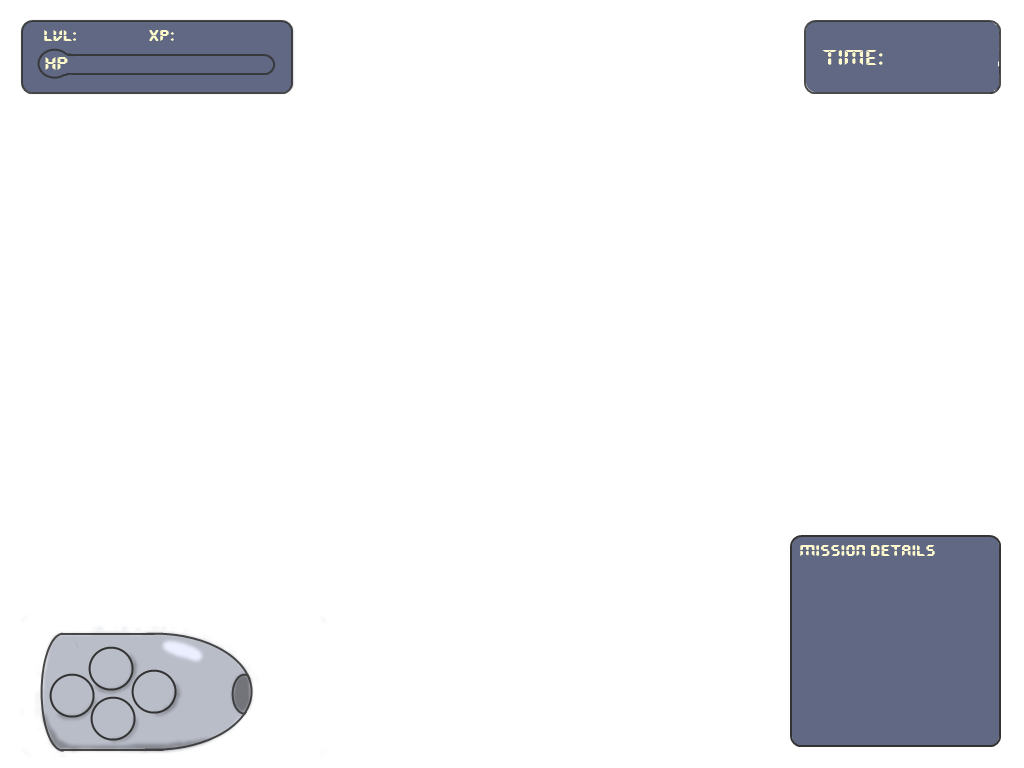
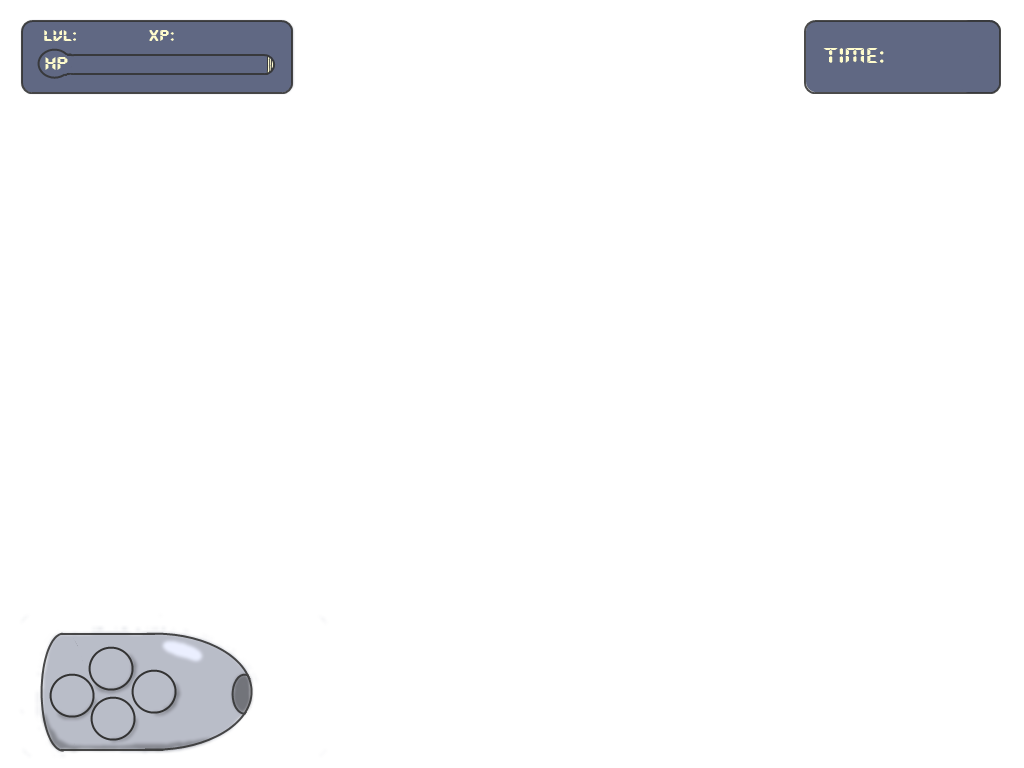
Verbesserte Mods zuweisung, pausenmenue, camerareset

Changed region(s): [[0.75, 0.6875, 1.0, 1.0], [0.8125, 0.0625, 0.875, 0.0938]]

diff --git a/Testsubjekt V1/Testsubjekt V1/Testsubjekt V1/GameScreens/PauseScreen.cs b/Testsubjekt V1/Testsubjekt V1/Testsubjekt V1/GameScreens/PauseScreen.cs
@@ -11,14 +11,23 @@ namespace TestsubjektV1
 {
     class PauseScreen : GameScreen
     {
-                int index;
+        int index;
         private SpriteFont menuFont1;
         private Rectangle resumeRectangle;
-        private Rectangle loadRectangle;
+        private Rectangle saveRectangle;
         private Rectangle exitRectangle;
+        private Rectangle modRectangle;
+        private Rectangle charRectangle;
+        private Rectangle missionRectangle;
         private Rectangle fadeRectangle;
+        private Rectangle baseRectangle;
+        private Rectangle interfaceRectangle;
+        private Rectangle frameRectangle;
+
 
         Texture2D cursor;
+        private Texture2D userInterface;
+        private Texture2D frame;
 
         private SpriteBatch spriteBatch;
         private ContentManager contentManager;
@@ -37,39 +46,100 @@ namespace TestsubjektV1
             world = w;
             camera = cam;
             menuFont1 = content.Load<SpriteFont>("Fonts/MenuFont1");
-            resumeRectangle = new Rectangle(358, 290, 286, 45);
-            loadRectangle = new Rectangle(402, 390, 214, 45);
-            exitRectangle = new Rectangle(409, 490, 187, 45);
+            resumeRectangle = new Rectangle(725, 76, 63, 58);
+            saveRectangle = new Rectangle(402, 225, 228, 43);
+            exitRectangle = new Rectangle(402, 505, 228, 43);
+            modRectangle = new Rectangle(402, 393, 228, 43);
+            charRectangle = new Rectangle(402, 281, 228, 43);
+            missionRectangle = new Rectangle(402, 337, 228, 43);
+            baseRectangle = new Rectangle(402, 449, 228, 43);
+            frameRectangle = saveRectangle;
+            
             graphicsDevice = gD;
             spriteBatch = new SpriteBatch(graphicsDevice);
             contentManager = content;
             cursor = content.Load<Texture2D>("cursor");
             fadeRectangle = new Rectangle(0, 0, 1024, 768);
+
+            userInterface = content.Load<Texture2D>("PauseMenu");
+            frame = content.Load<Texture2D>("briefing_frame");
+            interfaceRectangle = new Rectangle(0, 0, 1024, 768);
         }
 
         private void onNewGameClick()
         {
-            if (resumeRectangle.Contains(Mouse.GetState().X, Mouse.GetState().Y) && Mouse.GetState().LeftButton == ButtonState.Pressed)
-                screenReturnValue = Constants.CMD_NEW;
+            if (resumeRectangle.Contains(Mouse.GetState().X, Mouse.GetState().Y))
+            {
+                if (Mouse.GetState().LeftButton == ButtonState.Pressed)
+                    screenReturnValue = Constants.CMD_NEW;
+            }
         }
 
         private void onExitClick()
         {
-            if (exitRectangle.Contains(Mouse.GetState().X, Mouse.GetState().Y) && Mouse.GetState().LeftButton == ButtonState.Pressed)
-                screenReturnValue = Constants.CMD_EXIT;
+            if (exitRectangle.Contains(Mouse.GetState().X, Mouse.GetState().Y))
+            {
+                frameRectangle = exitRectangle;
+                if (Mouse.GetState().LeftButton == ButtonState.Pressed)
+                    screenReturnValue = Constants.CMD_EXIT;
+            }
         }
 
-        private void onLoadClick()
+        private void onSaveClick()
         { 
             //TODO
+        }
+
+        private void onBaseClick()
+        {
+            if (baseRectangle.Contains(Mouse.GetState().X, Mouse.GetState().Y))
+            {
+                frameRectangle = baseRectangle;
+                if (Mouse.GetState().LeftButton == ButtonState.Pressed)
+                {
+                    world.warp(0, 0);
+                    camera.reset();
+                    screenReturnValue = Constants.CMD_NEW;
+                }
+            }
+        }
+        private void onModClick()
+        {
+            if (modRectangle.Contains(Mouse.GetState().X, Mouse.GetState().Y))
+            {
+                frameRectangle = modRectangle;
+                if (Mouse.GetState().LeftButton == ButtonState.Pressed)
+                    screenReturnValue = Constants.CMD_MOD;
+            }
+        }
+        private void onCharClick()
+        {
+            if (charRectangle.Contains(Mouse.GetState().X, Mouse.GetState().Y))
+            {
+                frameRectangle = charRectangle;
+                if (Mouse.GetState().LeftButton == ButtonState.Pressed)
+                    screenReturnValue = Constants.CMD_NEW;
+            }
+        }
+        private void onMissionClick()
+        {
+            if (missionRectangle.Contains(Mouse.GetState().X, Mouse.GetState().Y))
+            {
+                frameRectangle = missionRectangle;
+                if (Mouse.GetState().LeftButton == ButtonState.Pressed)
+                    screenReturnValue = Constants.CMD_JOURNAL;
+            }
         }
        
         public override int update(GameTime gameTime)
         {
-            //TODO
+            onSaveClick();
             onExitClick();
-            onLoadClick();
             onNewGameClick();
+            onBaseClick();
+            onCharClick();
+            onMissionClick();
+            onModClick();
             return screenReturnValue;
         }
 
@@ -86,7 +156,8 @@ namespace TestsubjektV1
             //Draw Fade
             drawFade();
             //Draw Menu
-            drawMenu(); 
+            spriteBatch.Draw(userInterface, interfaceRectangle, Color.White);
+            spriteBatch.Draw(frame, frameRectangle, Color.White);
             
             //Draw Cursor
             spriteBatch.Draw(cursor, new Rectangle(Mouse.GetState().X, Mouse.GetState().Y, 38, 50), Color.White);
@@ -103,16 +174,5 @@ namespace TestsubjektV1
             
         }
 
-        private void drawMenu()
-        {
-
-            spriteBatch.DrawString(menuFont1, "Resume Game", new Vector2(401, 295),
-                                   (resumeRectangle.Contains(Mouse.GetState().X, Mouse.GetState().Y)) ? Color.Orange : Color.LemonChiffon);
-            spriteBatch.DrawString(menuFont1, "Load Game", new Vector2(415, 395),
-                                   (loadRectangle.Contains(Mouse.GetState().X, Mouse.GetState().Y)) ? Color.Orange : Color.LemonChiffon);
-            spriteBatch.DrawString(menuFont1, "Exit Game", new Vector2(424, 495),
-                                   (exitRectangle.Contains(Mouse.GetState().X, Mouse.GetState().Y)) ? Color.Orange : Color.LemonChiffon);
-
-        }
     }
 }

diff --git a/Testsubjekt V1/Testsubjekt V1/Testsubjekt V1/GameScreens/ModificationScreen.cs b/Testsubjekt V1/Testsubjekt V1/Testsubjekt V1/GameScreens/ModificationScreen.cs
@@ -136,14 +136,57 @@ namespace TestsubjektV1
                         default: inventoryItems[i][j].icon = i_mod_nil; break;
                     }
                 }
-            slot1Item=new ModItem(data.mods[19]);
-            slot1Item.icon = i_mod_nil;
-            slot2Item=new ModItem(data.mods[19]);
-            slot2Item.icon = i_mod_nil;
-            slot3Item=new ModItem(data.mods[19]);
-            slot3Item.icon = i_mod_nil;
-            slot4Item = new ModItem(data.mods[19]);
-            slot4Item.icon = i_mod_nil;
+            if (data.player.myWeapon.mods != null)
+            {
+                slot1Item = new ModItem(data.player.myWeapon.mods[0]);
+                switch (slot1Item.modification.type)
+                {
+                    case Constants.MOD_NIL: slot1Item.icon = i_mod_nil; break;
+                    case Constants.MOD_ELM: slot1Item.icon = i_mod_nil; break;
+                    case Constants.MOD_TYP: slot1Item.icon = i_mod_nil; break;
+                    case Constants.MOD_STR: slot1Item.icon = i_mod_str; break;
+                    case Constants.MOD_SPD: slot1Item.icon = i_mod_spd; break;
+                    case Constants.MOD_RCG: slot1Item.icon = i_mod_rcg; break;
+                    case Constants.MOD_ACP: slot1Item.icon = i_mod_acp; break;
+                    default: slot1Item.icon = i_mod_nil; break;
+                }
+                slot2Item = new ModItem(data.player.myWeapon.mods[1]);
+                switch (slot2Item.modification.type)
+                {
+                    case Constants.MOD_NIL: slot2Item.icon = i_mod_nil; break;
+                    case Constants.MOD_ELM: slot2Item.icon = i_mod_nil; break;
+                    case Constants.MOD_TYP: slot2Item.icon = i_mod_nil; break;
+                    case Constants.MOD_STR: slot2Item.icon = i_mod_str; break;
+                    case Constants.MOD_SPD: slot2Item.icon = i_mod_spd; break;
+                    case Constants.MOD_RCG: slot2Item.icon = i_mod_rcg; break;
+                    case Constants.MOD_ACP: slot2Item.icon = i_mod_acp; break;
+                    default: slot2Item.icon = i_mod_nil; break;
+                }
+                slot3Item = new ModItem(data.player.myWeapon.mods[2]);
+                switch (slot3Item.modification.type)
+                {
+                    case Constants.MOD_NIL: slot3Item.icon = i_mod_nil; break;
+                    case Constants.MOD_ELM: slot3Item.icon = i_mod_nil; break;
+                    case Constants.MOD_TYP: slot3Item.icon = i_mod_nil; break;
+                    case Constants.MOD_STR: slot3Item.icon = i_mod_str; break;
+                    case Constants.MOD_SPD: slot3Item.icon = i_mod_spd; break;
+                    case Constants.MOD_RCG: slot3Item.icon = i_mod_rcg; break;
+                    case Constants.MOD_ACP: slot3Item.icon = i_mod_acp; break;
+                    default: slot3Item.icon = i_mod_nil; break;
+                }
+                slot4Item = new ModItem(data.player.myWeapon.mods[3]);
+                switch (slot4Item.modification.type)
+                {
+                    case Constants.MOD_NIL: slot4Item.icon = i_mod_nil; break;
+                    case Constants.MOD_ELM: slot4Item.icon = i_mod_nil; break;
+                    case Constants.MOD_TYP: slot4Item.icon = i_mod_nil; break;
+                    case Constants.MOD_STR: slot4Item.icon = i_mod_str; break;
+                    case Constants.MOD_SPD: slot4Item.icon = i_mod_spd; break;
+                    case Constants.MOD_RCG: slot4Item.icon = i_mod_rcg; break;
+                    case Constants.MOD_ACP: slot4Item.icon = i_mod_acp; break;
+                    default: slot4Item.icon = i_mod_nil; break;
+                }
+            }
 
             #endregion
 
@@ -312,6 +355,14 @@ namespace TestsubjektV1
                     {
                         data.mods[i + j * 4] = inventoryItems[i][j].modification;
                     }
+                data.player.myWeapon.mods.Clear();
+                data.player.myWeapon.mods.Add(slot1Item.modification);
+                data.player.myWeapon.mods.Add(slot2Item.modification);
+                data.player.myWeapon.mods.Add(slot3Item.modification);
+                data.player.myWeapon.mods.Add(slot4Item.modification);
+
+                data.player.myWeapon.setup(); //applies mods to weapon
+
                 screenReturnValue = Constants.CMD_NEW;
             }
         }

diff --git a/Testsubjekt V1/Testsubjekt V1/Testsubjekt V1/GameScreens/ActionScreen.cs b/Testsubjekt V1/Testsubjekt V1/Testsubjekt V1/GameScreens/ActionScreen.cs
@@ -16,11 +16,17 @@ namespace TestsubjektV1
         GameData data;
         Camera camera;
         World world;
+        private const int MAX_HP_WIDTH = 200;
         private Texture2D hud;
+        private Texture2D HP1;
+        private Texture2D HP;
         private Rectangle hudRectangle;
+        private Rectangle HP1Rectangle;
+        private Rectangle HPRectangle;
         private SpriteBatch spriteBatch;
         private GraphicsDevice graphicsDevice;
         private ContentManager contentManager;
+        private SpriteFont font;
 
         public ActionScreen(ContentManager content, GraphicsDevice gD, GameData gameData, Camera cam, World w)
         {
@@ -31,8 +37,14 @@ namespace TestsubjektV1
             contentManager = content;
             graphicsDevice = gD;
 
+            font = content.Load<SpriteFont>("Fonts/ModFont");
+
             hud = content.Load<Texture2D>("hud");
             hudRectangle = new Rectangle(0, 0, 1024, 768);
+            HP1 = content.Load<Texture2D>("hp_1");
+            HP1Rectangle = new Rectangle(37, 49, 30, 30);
+            HP = content.Load<Texture2D>("hp");
+            HPRectangle = new Rectangle(67, 56, 200, 17);
             spriteBatch = new SpriteBatch(graphicsDevice);
         }
 
@@ -58,11 +70,13 @@ namespace TestsubjektV1
             if (Keyboard.GetState().IsKeyDown(Keys.U))
             {
                 world.warp(1, 1);
+                camera.reset();
                 return Constants.CMD_NONE;
             }
             if (Keyboard.GetState().IsKeyDown(Keys.Z))
             {
                 world.warp(0, 0);
+                camera.reset();
                 return Constants.CMD_NONE;
             }
 
@@ -83,6 +97,14 @@ namespace TestsubjektV1
         {
             spriteBatch.Begin();
             spriteBatch.Draw(hud, hudRectangle, Color.White);
+            if (data.player.health > 0)
+            {
+                spriteBatch.Draw(HP1, HP1Rectangle, Color.White);
+                HPRectangle.Width = (MAX_HP_WIDTH * data.player.health) / data.player.maxHealth;
+                spriteBatch.DrawString(font, data.player.level.ToString(), new Vector2(79, 24), Color.LemonChiffon);
+                spriteBatch.DrawString(font, "0 / 76", new Vector2(178, 24), Color.LemonChiffon);
+                spriteBatch.Draw(HP, HPRectangle, Color.White);
+            }
             spriteBatch.End();
         }
     }

diff --git a/Testsubjekt V1/Testsubjekt V1/Testsubjekt V1/Game1.cs b/Testsubjekt V1/Testsubjekt V1/Testsubjekt V1/Game1.cs
@@ -22,6 +22,7 @@ namespace TestsubjektV1
         World world;
         GameData data;
         GameScreen screen;
+        ActionScreen myAction;
 
         Camera camera;
         Character player;
@@ -48,6 +49,7 @@ namespace TestsubjektV1
             world = new World(Content);
             data = new GameData(Content, world);
             screen = new TitleScreen(Content, GraphicsDevice);
+            myAction = new ActionScreen(Content, GraphicsDevice, data, camera, world);
 
             base.Initialize();
         }
@@ -89,7 +91,7 @@ namespace TestsubjektV1
             {
                 case Constants.CMD_EXIT: Exit(); break;
                 case Constants.CMD_NONE: break;
-                case Constants.CMD_NEW: screen = new ActionScreen(Content, GraphicsDevice, data, camera, world); break;
+                case Constants.CMD_NEW: Mouse.SetPosition(512, 384); screen = myAction; break;
                 case Constants.CMD_PAUSE: screen = new PauseScreen(Content, GraphicsDevice, data, world, camera); break;
                 case Constants.CMD_JOURNAL: screen = new BriefingScreen(Content, GraphicsDevice, data, world, camera); break;
                 case Constants.CMD_MOD: screen = new ModificationScreen(Content, GraphicsDevice, data, world, camera); break;

diff --git a/Testsubjekt V1/Testsubjekt V1/Testsubjekt V1/GameScreens/BriefingScreen.cs b/Testsubjekt V1/Testsubjekt V1/Testsubjekt V1/GameScreens/BriefingScreen.cs
@@ -101,15 +101,16 @@ namespace TestsubjektV1
         }
         private void onStartClick()
         {
-            if (caveRectangle.Contains(Mouse.GetState().X, Mouse.GetState().Y) && Mouse.GetState().LeftButton == ButtonState.Pressed)
+            if (startRectangle.Contains(Mouse.GetState().X, Mouse.GetState().Y) && Mouse.GetState().LeftButton == ButtonState.Pressed)
             {
                 switch (activeStage)
                 {
-                    case 0: break;
+                    case 0: camera.reset();  world.warp(1, 1); break;
                     case 1: break;
                     case 2: break;
                     default: break;
                 }
+                screenReturnValue = Constants.CMD_NEW;
             }
         }
 

diff --git a/Testsubjekt V1/Testsubjekt V1/Testsubjekt V1/Camera.cs b/Testsubjekt V1/Testsubjekt V1/Testsubjekt V1/Camera.cs
@@ -40,6 +40,16 @@ namespace TestsubjektV1
             RebuildProjectionMatrix();
         }
 
+        public void reset()
+        {
+            viewDirection = new Vector3(0, -0.7f, -0.5f);
+            position = new Vector3(0, 10, 0);
+            phi = .5f*MathHelper.Pi;
+            theta = -.75f*MathHelper.Pi;
+            lastMouseX = 511; // last x position of the mouse
+            lastMouseY = 383; // last y position of the mouse
+        }
+
         /// <summary>
         /// The projection matrix for this camera
         /// </summary>

diff --git a/Testsubjekt V1/Testsubjekt V1/Testsubjekt V1/GameObjects/Weapon.cs b/Testsubjekt V1/Testsubjekt V1/Testsubjekt V1/GameObjects/Weapon.cs
@@ -36,6 +36,10 @@ namespace TestsubjektV1
             cooldown = 0;
 
             mods = new List<Mod>(4);
+            mods.Add(new Mod(Constants.MOD_NIL));
+            mods.Add(new Mod(Constants.MOD_NIL));
+            mods.Add(new Mod(Constants.MOD_NIL));
+            mods.Add(new Mod(Constants.MOD_NIL));
             resetMods();
         }
 

diff --git a/Testsubjekt V1/Testsubjekt V1/Testsubjekt V1/GameObjects/Player.cs b/Testsubjekt V1/Testsubjekt V1/Testsubjekt V1/GameObjects/Player.cs
@@ -44,6 +44,13 @@ namespace TestsubjektV1
             lastMapID = world.mapID;
         }
 
+
+        public Weapon myWeapon
+        {
+            get {return weapon;}
+        }
+
+
         public int ground
         {
             get
